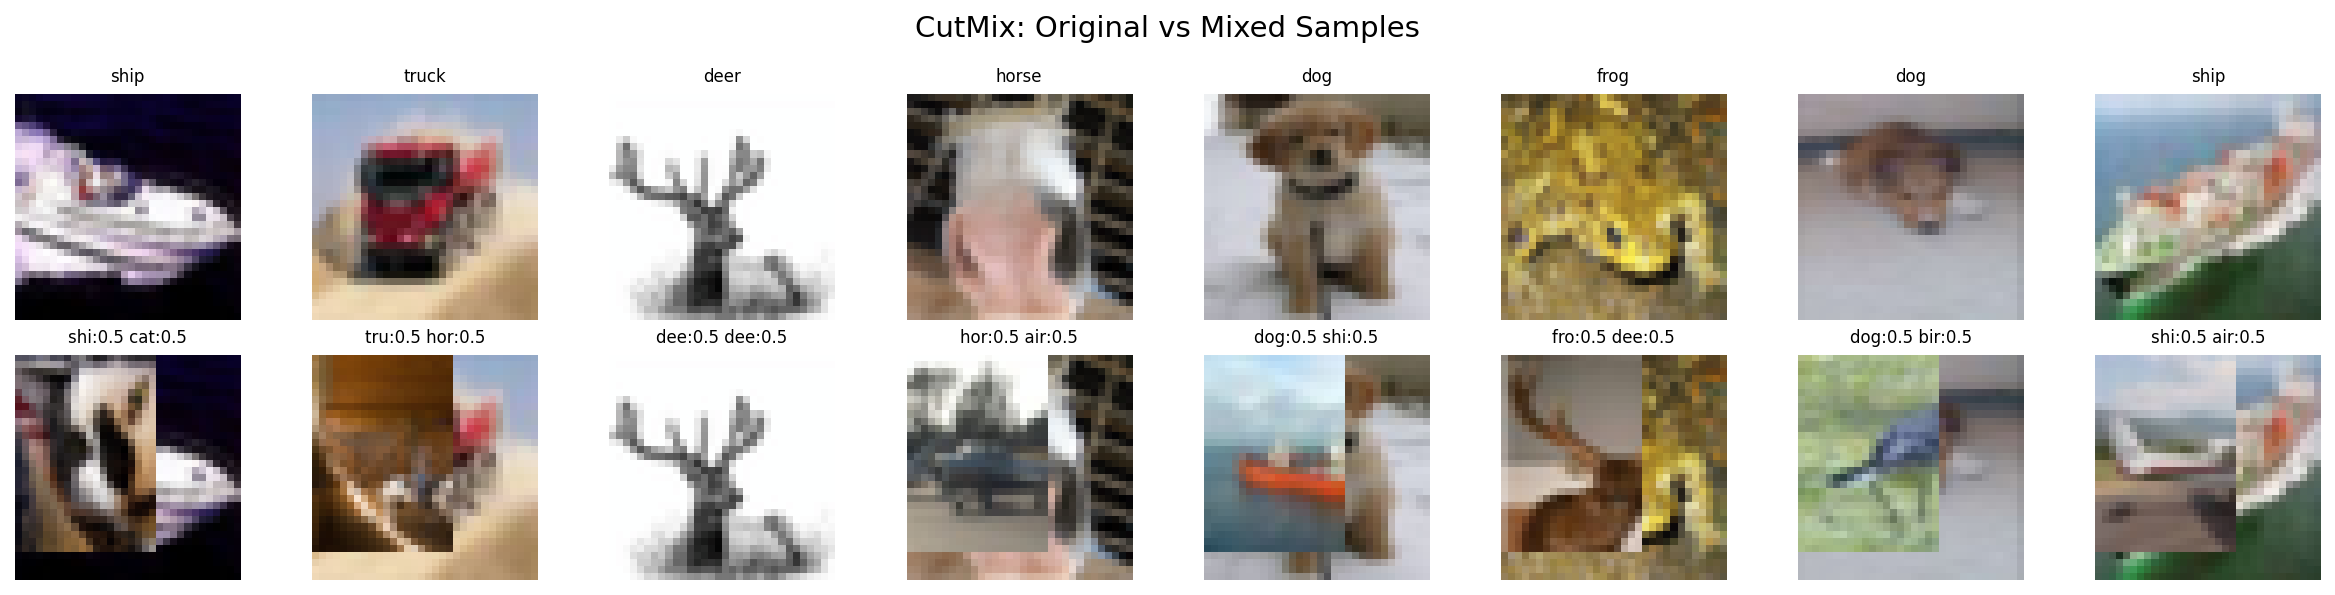
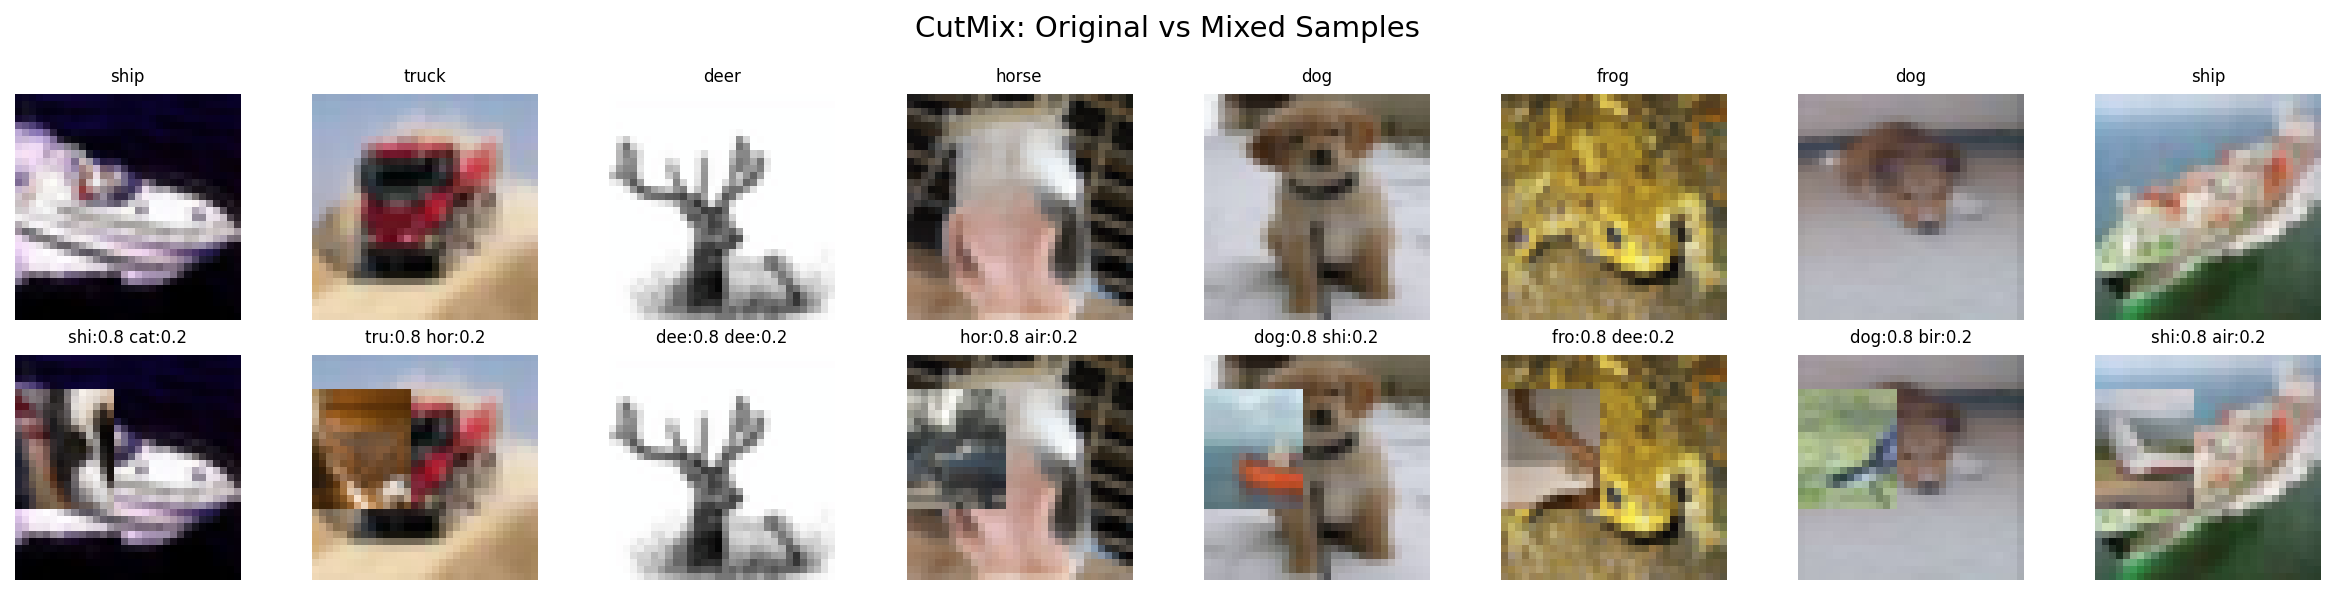
docs(examples): the MixUp tutorial's ratios and figures from a GPU run of the loop-free draws
The mixing ratios the tutorial prints change with the sampler (0.014 -> 0.260 for MixUp, 0.453
-> 0.768 for CutMix's fraction kept; partners and labels are unchanged). The page's four figures
and the CIFAR-10 guide's four come from the same run on two A100 GPUs.

diff --git a/docs/examples/advanced/augmentation/mixup-cutmix-tutorial.md b/docs/examples/advanced/augmentation/mixup-cutmix-tutorial.md
@@ -294,7 +294,7 @@ MixUp batch:
   Image shape: (32, 32, 32, 3)
   Labels (unchanged integers): [8 9 4 7 5 6 5 8]
   Partner of each record: [ 4 21 14  3 28 29 24 27]
-  Mixing ratio λ: 0.014
+  Mixing ratio λ: 0.260
 ```
 
 ### Visualize MixUp Results
@@ -438,7 +438,7 @@ print(f"  Fraction of each image kept, λ: {float(cutmix_batch.batch_state[MIX_L
 ```
 CutMix batch:
   Image shape: (32, 32, 32, 3)
-  Fraction of each image kept, λ: 0.453
+  Fraction of each image kept, λ: 0.768
 ```
 
 ### Visualize CutMix Results
